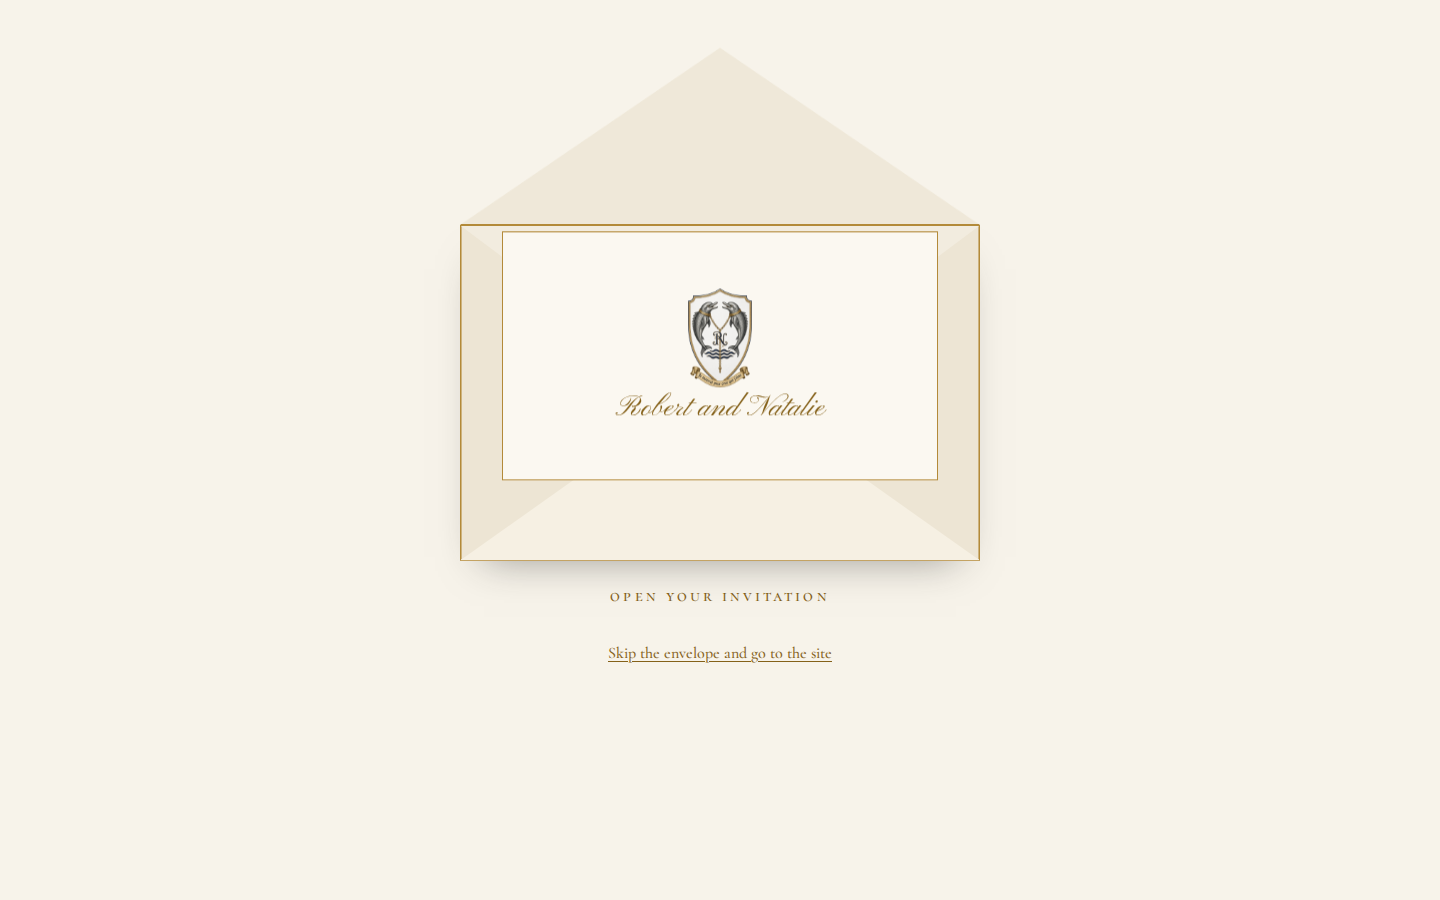
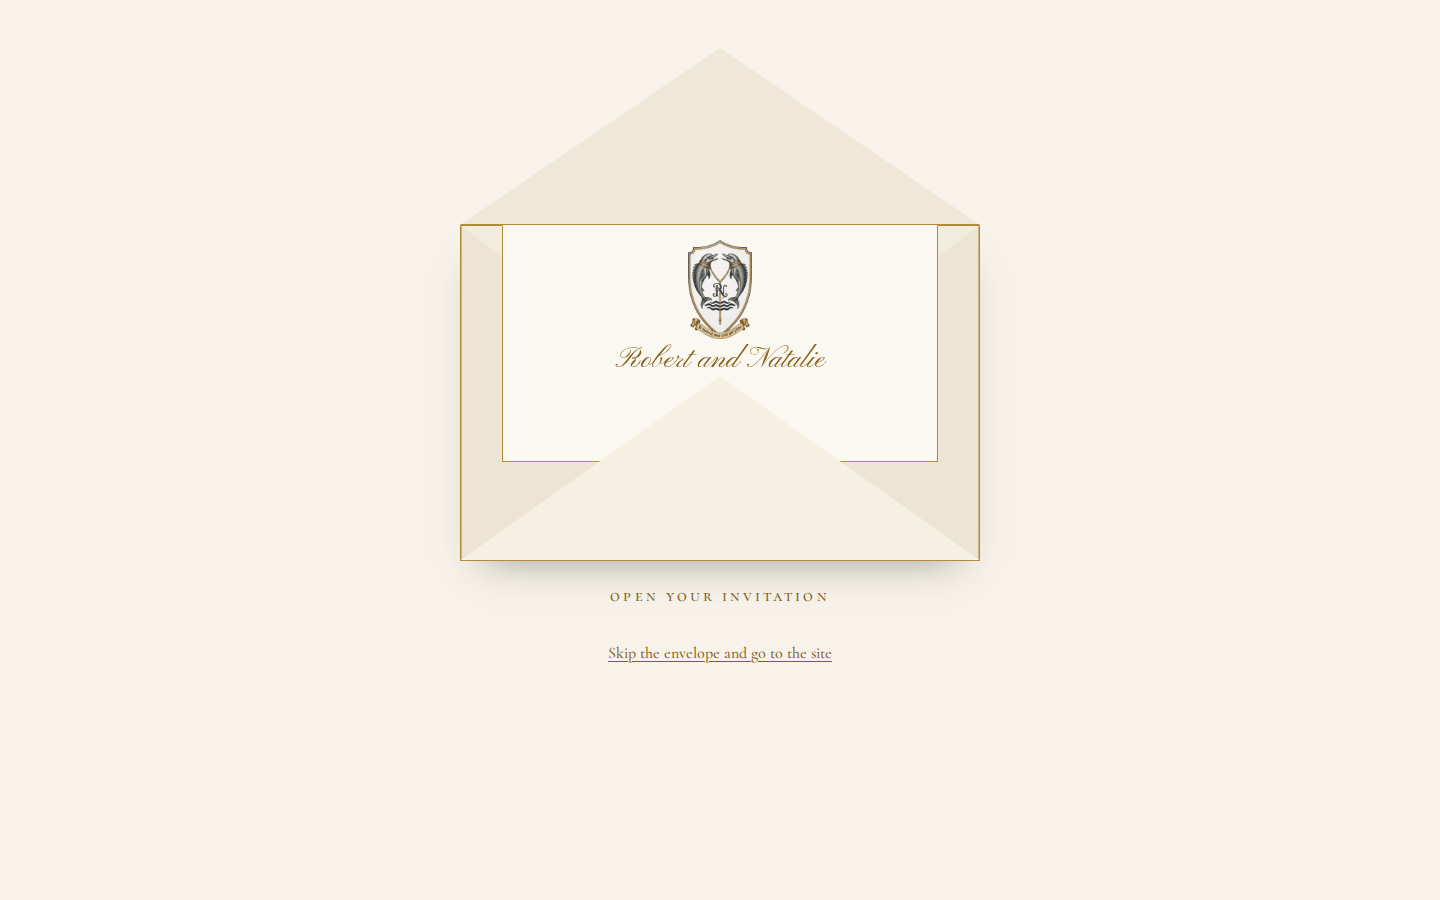
Checkpoint: selection proof mockup updates (docs/selection)
Claude-Session: https://claude.ai/code/session_01Cg3sbGduzfMBytCjckB1t6

Changed region(s): [[0.375, 0.2489, 0.625, 0.4667], [0.5938, 0.4978, 0.6562, 0.56], [0.3438, 0.4978, 0.4062, 0.56]]

diff --git a/docs/selection/proofs/alt-a-editorial-heritage/index.html b/docs/selection/proofs/alt-a-editorial-heritage/index.html
@@ -231,21 +231,22 @@ footer .wrap { display: flex; justify-content: space-between; gap: 12px; flex-wr
 .env-body::before, .env-body::after { content: ""; position: absolute; inset: 0; border: 1px solid rgba(179,138,57,.55); }
 .env-body::before { clip-path: polygon(0 0, 0 100%, 50% 58%); background: #ede5d4; }
 .env-body::after { clip-path: polygon(100% 0, 100% 100%, 50% 58%); background: #ede5d4; }
-.env-bottom { position: absolute; inset: 0; clip-path: polygon(0 100%, 100% 100%, 50% 45%); background: #f6f0e3; border-bottom: 1px solid var(--gold-deco); }
+.env-bottom { position: absolute; inset: 0; clip-path: polygon(0 100%, 100% 100%, 50% 45%); background: #f6f0e3; border-bottom: 1px solid var(--gold-deco); z-index: 2; }
 .env-flap { position: absolute; left: 0; right: 0; top: 0; height: 58%; clip-path: polygon(0 0, 100% 0, 50% 100%); background: #efe8d9; border-top: 1px solid var(--gold-deco); transform-origin: top center; transition: transform .7s ease; z-index: 2; }
-.env-card { position: absolute; left: 8%; right: 8%; top: 12%; bottom: 14%; background: #fbf8f1; border: 1px solid var(--gold-deco); display: flex; flex-direction: column; align-items: center; justify-content: center; gap: 6px; transition: transform .7s ease .15s; z-index: 1; }
+.env-card { position: absolute; left: 8%; right: 8%; top: 12%; bottom: 14%; background: #fbf8f1; border: 1px solid var(--gold-deco); display: flex; flex-direction: column; align-items: center; justify-content: flex-start; padding-top: 5%; gap: 6px; transition: transform .7s ease .15s; z-index: 1; }
 .env-card img { width: 64px; }
 .env-card .n { font-family: var(--script); color: var(--gold-text); font-size: 30px; line-height: 1; }
 .env-seal { position: absolute; left: 50%; top: 58%; width: 64px; height: 64px; transform: translate(-50%, -50%); border-radius: 50%; background: var(--gold-deco); color: #fff; font-family: var(--script); font-size: 30px; display: flex; align-items: center; justify-content: center; box-shadow: inset 0 0 0 3px rgba(255,255,255,.35), 0 4px 10px -4px rgba(0,0,0,.4); z-index: 3; transition: opacity .3s; }
 .envelope.is-open .env-flap { transform: rotateX(180deg); }
 .envelope.is-open .env-seal { opacity: 0; }
-.envelope.is-open .env-card { transform: translateY(-22%); }
+.envelope.is-open .env-card { transform: translateY(-34%); }
 .env-caption { font-family: var(--sc); font-size: 17px; letter-spacing: .18em; text-transform: lowercase; color: var(--gold-text); margin: 0; text-align: center; }
 .env-skip { font-size: 16px; min-height: var(--tap); display: inline-flex; align-items: center; }
 
 /* ---------- Keepsake dock (invitation to the lower-left after "continue") ---------- */
 body.docked .opening-grid { grid-template-columns: 1fr; }
-body.docked #invitation-panel { display: none; }
+body.docked .opening-grid > #invitation-panel { display: none; }
+dialog #invitation-panel { margin: 6px; }
 .keepsake {
   position: fixed; left: 16px; bottom: 16px; z-index: 80;
   width: 96px; padding: 10px 6px 8px; background: #fbf8f1; border: 1px solid var(--gold-deco);
